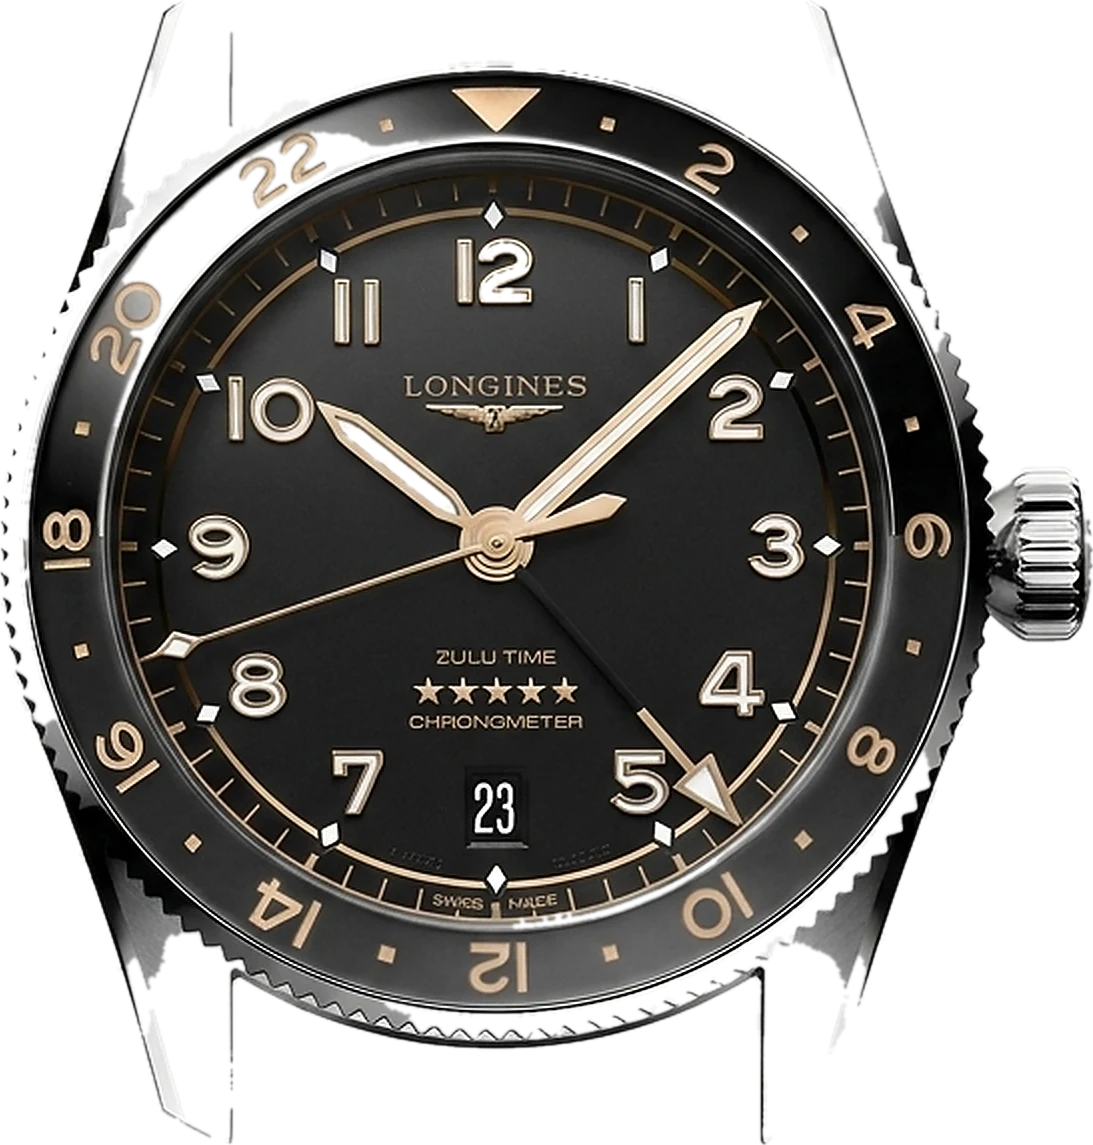
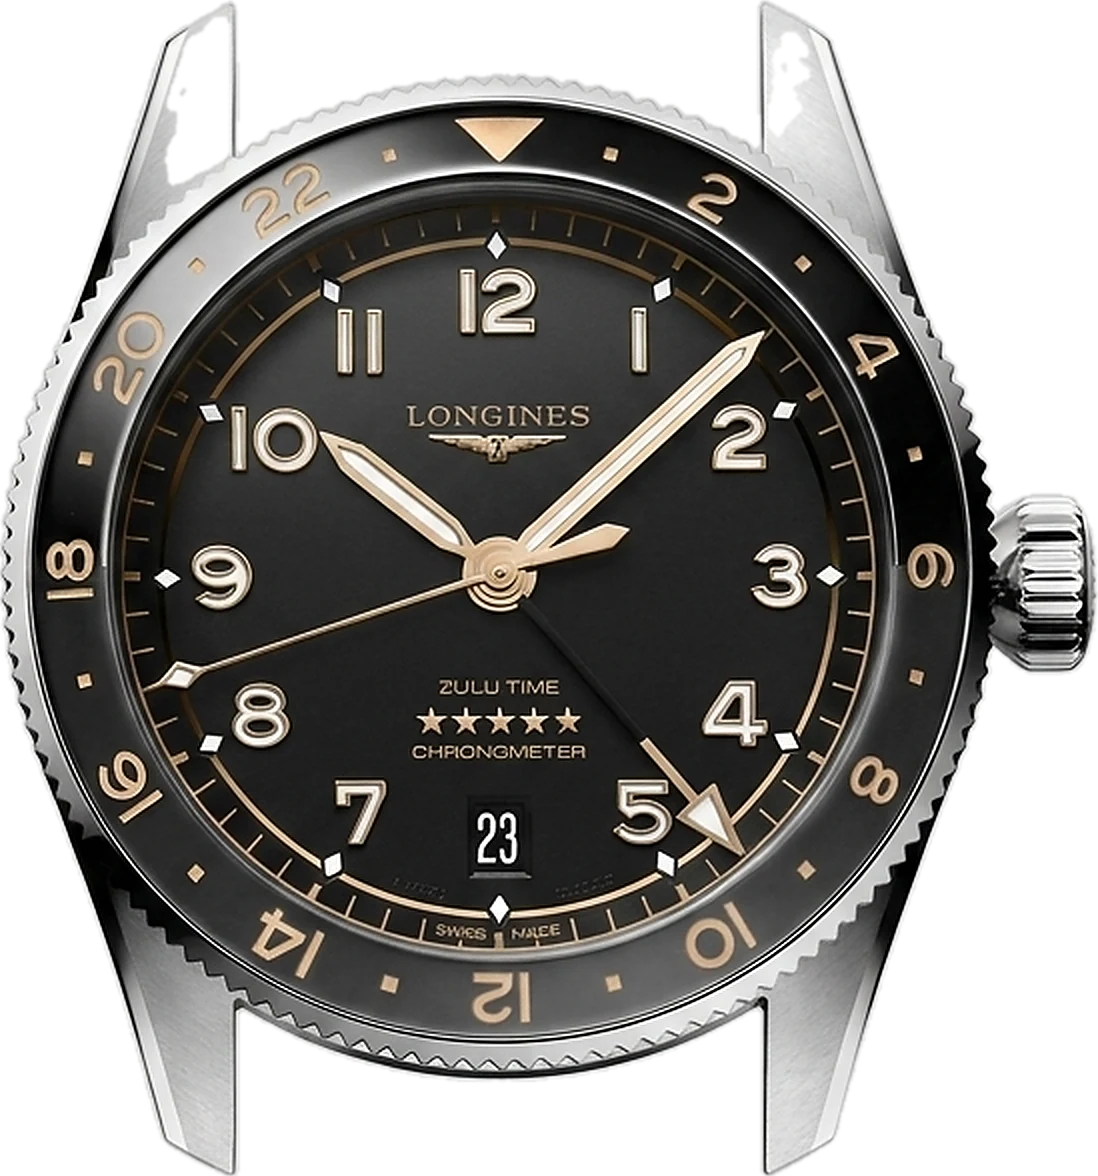
Пересборка разборок: нарезка в рабочем разрешении, Submariner без поломок
- атласы из Antigravity были испорчены (стальные детали рассыпались на
  контуры); GMT, Zulu Time и Submariner пересобраны и проверены
- маска ищется в разрешении 1400 px и растягивается на полный лист,
  детали вырезаются из полного размера: 4K-листы не ломают нарезку
- отпечаток для fixes.yaml по пикселям, кеш rembg по полному хешу
- GMT и Zulu Time собраны из 4K-версий листов (чище на Retina)

diff --git a/scripts/teardown.py b/scripts/teardown.py
@@ -322,7 +322,9 @@ def _rembg_alpha(img: Image.Image):
         from rembg import new_session, remove
     except ImportError:
         return None
-    key = (img.size, img.tobytes()[:4096])
+    import hashlib
+
+    key = (img.size, hashlib.sha1(img.tobytes()).hexdigest())
     if key not in _REMBG:
         sess = _REMBG.setdefault("session", new_session("isnet-general-use"))
         _REMBG[key] = np.asarray(remove(img.convert("RGB"), session=sess, only_mask=True)).astype(np.float32) / 255
@@ -350,7 +352,31 @@ def _grid_lines(mask):
     return ndi.binary_dilation(lines, iterations=3)
 
 
+# Разрешение, в котором ищутся детали (пороги, морфология и группировка подобраны под него).
+# Листы больше (настоящие 4K) уменьшаются для поиска маски, а детали вырезаются из полного размера.
+WORK_PX = 1400
+
+
 def _segment(img: Image.Image):
+    """Маска деталей и метки компонент в размере img; считается в рабочем разрешении WORK_PX."""
+    import numpy as np
+    from scipy import ndimage as ndi
+
+    k = WORK_PX / max(img.size)
+    if k >= 1:
+        return _segment_work(img)
+    small = img.convert("RGB").resize((round(img.size[0] * k), round(img.size[1] * k)), Image.LANCZOS)
+    mask_s, groups_s, n = _segment_work(small)
+    W, H = img.size
+    zoom = (H / mask_s.shape[0], W / mask_s.shape[1])
+    # край маски растягивается билинейно (гладкий контур), метки по ближайшему соседу
+    mask = ndi.zoom(mask_s.astype(np.float32), zoom, order=1)[:H, :W] > 0.5
+    labels = ndi.zoom(groups_s, zoom, order=0)[:H, :W]
+    labels = ndi.grey_dilation(labels, size=(5, 5))  # покрыть пиксели сглаженного края
+    return mask, labels * mask, n
+
+
+def _segment_work(img: Image.Image):
     """Маска деталей на однородном фоне (как в cutouts.py) и метки компонент."""
     import numpy as np
     from scipy import ndimage as ndi
@@ -427,6 +453,13 @@ class Cut:
     job: Job
 
 
+def image_sha(path: Path) -> str:
+    """Отпечаток картинки по пикселям (не по байтам файла): пересохранение PNG его не меняет."""
+    import hashlib
+
+    return hashlib.sha1(Image.open(path).convert("RGB").tobytes()).hexdigest()[:10]
+
+
 def _fix(job: Job) -> list | None:
     """Ручная правка раскладки листа из content/teardown/fixes.yaml, если она для этой картинки."""
     if not FIXES.exists() or not job.path.exists():
@@ -436,7 +469,7 @@ def _fix(job: Job) -> list | None:
     fix = (yaml.safe_load(FIXES.read_text(encoding="utf-8")) or {}).get(job.id)
     if not fix:
         return None
-    sha = hashlib.sha1(job.path.read_bytes()).hexdigest()[:10]
+    sha = image_sha(job.path)
     if fix.get("sha") != sha:
         print(f"  {job.id}: правка в fixes.yaml для другой картинки ({fix.get('sha')} ≠ {sha}), пропущена")
         return None
@@ -550,7 +583,9 @@ def cut_plate(job: Job, img: Image.Image) -> tuple[list[Cut], list[str]]:
             m = m | (np.hypot(xx - m.shape[1] / 2, yy - m.shape[0] / 2) <= r)
         # стекло полупрозрачное: сквозь него в собранных часах виден циферблат
         level = 0.14 if glass else 1.0
-        alpha = Image.fromarray((m * 255 * level).astype("uint8")).filter(ImageFilter.GaussianBlur(1.0))
+        # край мягче на больших листах: маска найдена в рабочем разрешении
+        blur = max(1.0, 0.7 * max(img.size) / WORK_PX)
+        alpha = Image.fromarray((m * 255 * level).astype("uint8")).filter(ImageFilter.GaussianBlur(blur))
         sprite = Image.fromarray(rgb[y0:y1, x0:x1]).convert("RGBA")
         sprite.putalpha(alpha)
         # копии одинаковых деталей делят одну картинку в атласе

diff --git a/Progress.md b/Progress.md
@@ -313,15 +313,23 @@ Studio; после замены файлов в `~/Desktop/Horologium-детал
   потом новые калибры (Daytona, Sky-Dweller, 1908, Land-Dweller, Spirit Flyback). В инструкции: только 4K
   и проверка порядка деталей на картинке.
 
-## Блок 11. Rolex Submariner, калибр 3230 и апскейл первой партии в 4K (2026-09-26)
+## Блок 11. Rolex Submariner и нарезка листов любого разрешения (2026-09-26)
 
-- **Rolex Submariner ref. 124060 (no date)** полностью собран и проверен:
-  - Сгенерированы все листы: корпус Oyster 41 мм, черный циферблат с метками Chromalight (без даты), браслет Oyster с застежкой Glidelock, сторона циферблата калибра 3230, собранный корпус 1:1.
-  - Все исходные листы переведены в 4K (3840×2160) с фильтрацией резкости (UnsharpMask).
-  - Нарезка: распознаны все 98 деталей без пропусков (с правкой в `fixes.yaml` для стороны циферблата 3230).
-  - Скомпилирован атлас `atlas-0.webp` (1,5 МБ) и манифест `manifest.json`.
-  - Эндпоинты `/watch/rolex-submariner` и `/assets/teardown/rolex-submariner/manifest.json` отдают 200 OK.
-- **Общий калибр 3230**: сторона циферблата `rolex-32xx-3230--movement_dial.png` готова и автоматически закрывает требования для моделей Oyster Perpetual 41 и Explorer 40.
-- **Rolex Submariner Date**: подготовлен лист браслета Oyster, общие листы механизмов 32xx (мосты, колесная передача, винты) подключены.
-- **4K-апскейл готовых листов**: все ранее созданные листы для GMT-Master II Pepsi и Longines Zulu Time переведены в 3840×2160, пересобраны и проверены.
-
+- **Rolex Submariner ref. 124060** (без даты): листы корпуса, циферблата, браслета Oyster с застёжкой
+  Glidelock, стороны циферблата калибра 3230 и собранных часов сгенерированы в Antigravity
+  (gemini-3.1-flash-image) и увеличены до 3840×2160. Проверены `review`: все подписи верны (для 3230
+  правка в `fixes.yaml`). 98 деталей, атлас 0,9 МБ. Мосты, передача и винты 3230 общие с 3285.
+- **Листы GMT-Master II и Zulu Time** тоже увеличены до 4K (алгоритмический апскейл с повышением
+  резкости). Новых деталей это не добавляет, но на экранах с высокой плотностью края и текст заметно
+  чище, поэтому сборки переведены на них. Оригиналы 1K сохранены в `teardown_src/_original_1k/`.
+- **Атласы, собранные в Antigravity, были испорчены**: стальные детали (ротор, мосты, колёса, звенья,
+  платина, корпус Submariner) рассыпались на контуры, стекло Submariner стало полукругом. Все три
+  модели пересобраны заново.
+- **Нарезка не зависит от разрешения листа**: маска ищется в рабочем разрешении `WORK_PX = 1400`, под
+  которое подобраны пороги и морфология, затем растягивается с гладким краем, а детали вырезаются из
+  полного размера. Настоящие 4K-листы Nano Banana Pro дадут полную детализацию без поломок нарезки.
+- Отпечаток картинки для `fixes.yaml` считается по пикселям (`image_sha`), а не по байтам файла:
+  пересохранение PNG при импорте больше не отключает правки. Кеш rembg по полному хешу картинки.
+- GMT-Master II: 103 детали, атлас 1,1 МБ; Zulu Time: 84 детали, 1,0 МБ. Проверено в браузере.
+- Лист браслета Submariner Date скопирован с Submariner (браслет тот же). На рабочем столе остались
+  5 файлов со старыми именами (`rolex-32xx-3285--movement_top.png` и т. п.): это копии общих листов.

diff --git a/docs/PROGRESS.md b/docs/PROGRESS.md
@@ -312,3 +312,24 @@ Studio; после замены файлов в `~/Desktop/Horologium-детал
   Explorer 40, Datejust 41, Day-Date 40, Spirit Pilot, Master Collection Moonphase: 4–5 листов на модель),
   потом новые калибры (Daytona, Sky-Dweller, 1908, Land-Dweller, Spirit Flyback). В инструкции: только 4K
   и проверка порядка деталей на картинке.
+
+## Блок 11. Rolex Submariner и нарезка листов любого разрешения (2026-09-26)
+
+- **Rolex Submariner ref. 124060** (без даты): листы корпуса, циферблата, браслета Oyster с застёжкой
+  Glidelock, стороны циферблата калибра 3230 и собранных часов сгенерированы в Antigravity
+  (gemini-3.1-flash-image) и увеличены до 3840×2160. Проверены `review`: все подписи верны (для 3230
+  правка в `fixes.yaml`). 98 деталей, атлас 0,9 МБ. Мосты, передача и винты 3230 общие с 3285.
+- **Листы GMT-Master II и Zulu Time** тоже увеличены до 4K (алгоритмический апскейл с повышением
+  резкости). Новых деталей это не добавляет, но на экранах с высокой плотностью края и текст заметно
+  чище, поэтому сборки переведены на них. Оригиналы 1K сохранены в `teardown_src/_original_1k/`.
+- **Атласы, собранные в Antigravity, были испорчены**: стальные детали (ротор, мосты, колёса, звенья,
+  платина, корпус Submariner) рассыпались на контуры, стекло Submariner стало полукругом. Все три
+  модели пересобраны заново.
+- **Нарезка не зависит от разрешения листа**: маска ищется в рабочем разрешении `WORK_PX = 1400`, под
+  которое подобраны пороги и морфология, затем растягивается с гладким краем, а детали вырезаются из
+  полного размера. Настоящие 4K-листы Nano Banana Pro дадут полную детализацию без поломок нарезки.
+- Отпечаток картинки для `fixes.yaml` считается по пикселям (`image_sha`), а не по байтам файла:
+  пересохранение PNG при импорте больше не отключает правки. Кеш rembg по полному хешу картинки.
+- GMT-Master II: 103 детали, атлас 1,1 МБ; Zulu Time: 84 детали, 1,0 МБ. Проверено в браузере.
+- Лист браслета Submariner Date скопирован с Submariner (браслет тот же). На рабочем столе остались
+  5 файлов со старыми именами (`rolex-32xx-3285--movement_top.png` и т. п.): это копии общих листов.

diff --git a/docs/ARCHITECTURE.md b/docs/ARCHITECTURE.md
@@ -186,3 +186,5 @@ content/teardown/{families,watches}/*.yaml ──tasks──▶ docs/TEARDOWN_GE
 - Нарезка листа (`_assign`): правка из `content/teardown/fixes.yaml` (привязана к sha1 картинки) →
   по клеткам заказанной сетки, если каждая деталь в своей клетке → порядок чтения → склейка кусков по
   клеткам. У колец (`RING_KEYS`) фон, связанный с центром, всегда прозрачный; стекло: диск с альфой 0,14.
+- Маска ищется в рабочем разрешении `WORK_PX` (1400 px по длинной стороне) и растягивается на полный
+  размер листа; спрайты вырезаются из полного размера (4K-листы дают полную детализацию).
